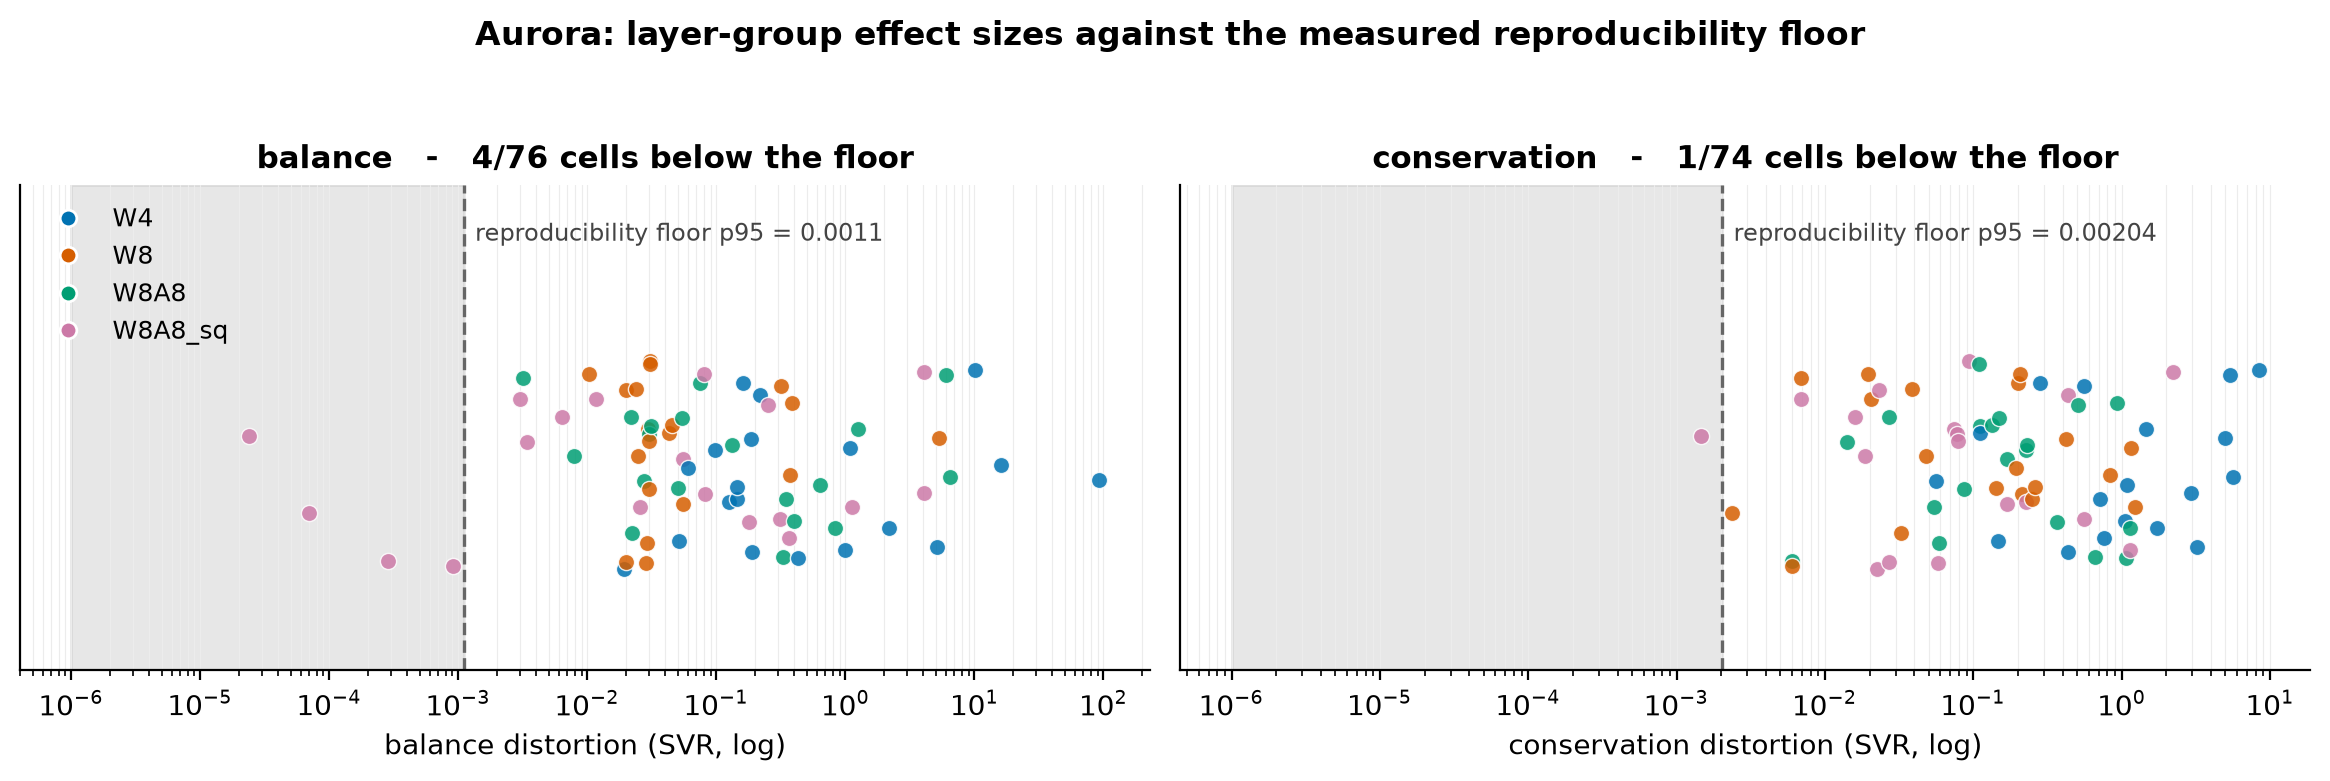
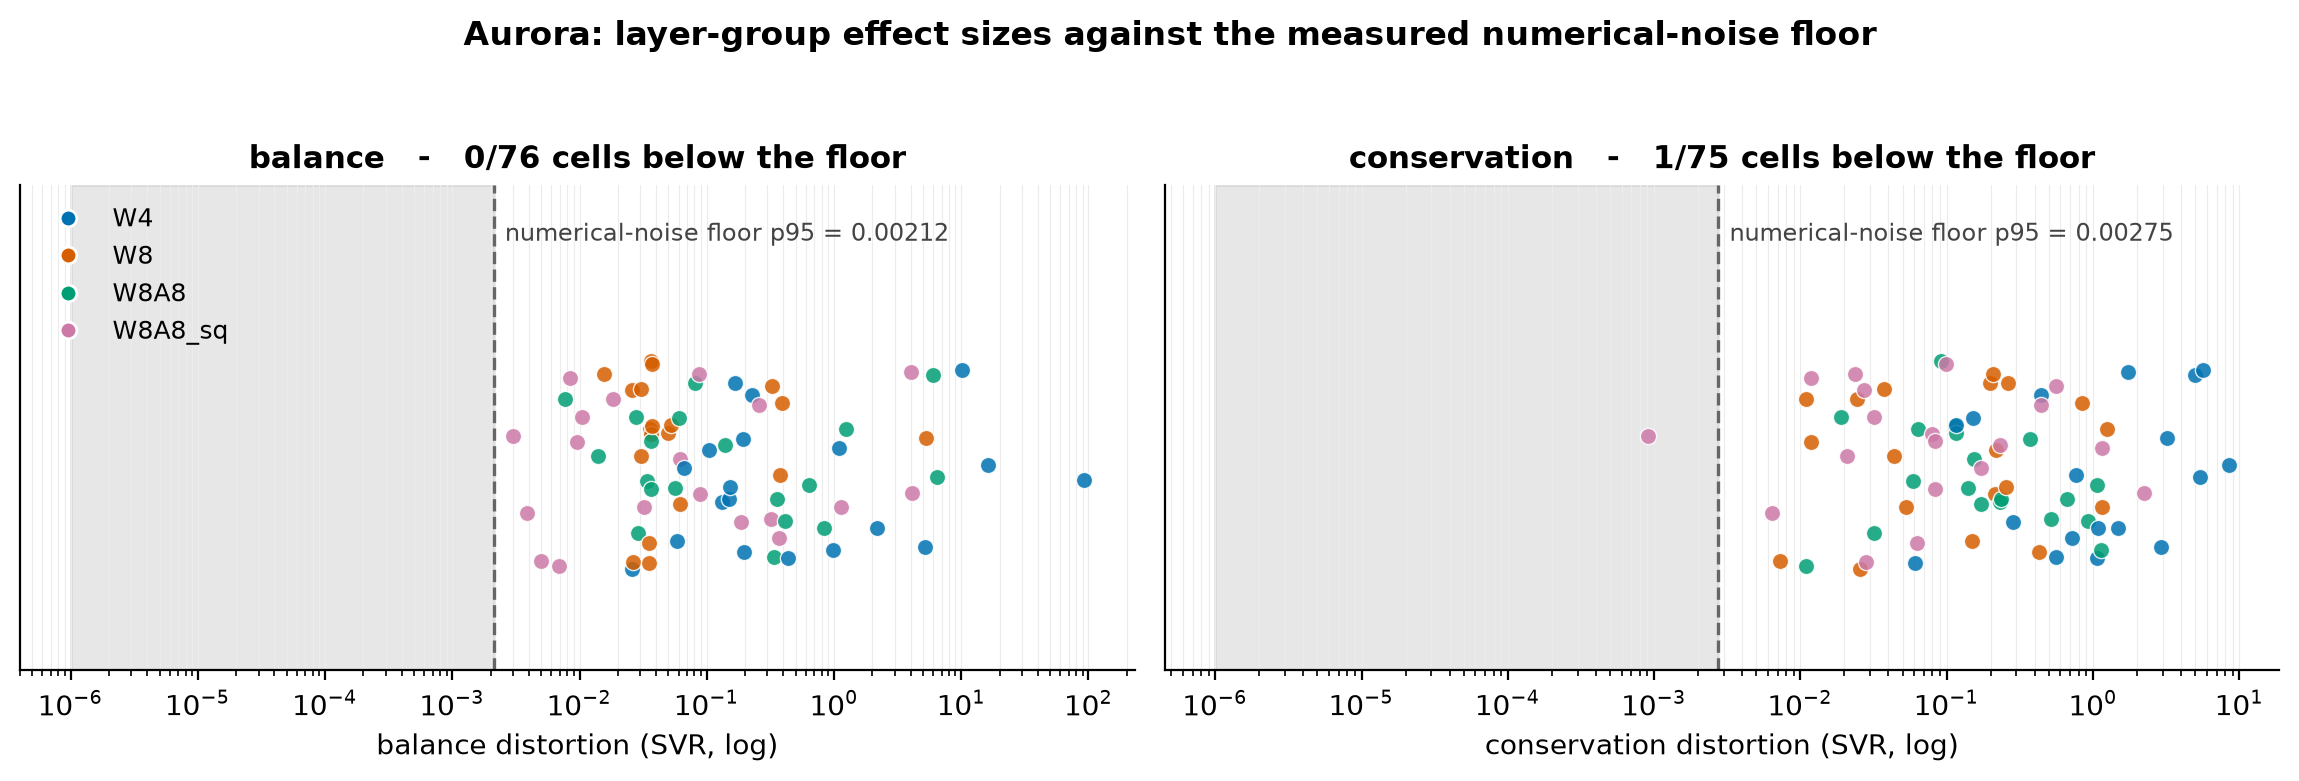
Changed fig A23/A26 to SVR instead of distortions and changed axis to use the same denominator as points so they share the same variability. Only numerator is changing

diff --git a/Aurora_Experiments/physq_core/derive_axis_null.py b/Aurora_Experiments/physq_core/derive_axis_null.py
@@ -10,6 +10,7 @@ import torch
 
 import ablation_comp as ac
 import paired_stats as ps
+import plot_common as pc
 from plot_common import AGG_CLASS, MetricsRun
 
 @contextlib.contextmanager
@@ -20,7 +21,7 @@ def _csv_writer(path):
 
 
 LEAD = 120
-DIR = "noise_floor_ens"
+DIR = "noise_floor_ens_n48"
 AXES = ["balance", "conservation", "standard"]
 
 AURORA_G1 = 0.03066     # film balance @W8 -- the floor must erase this
@@ -28,7 +29,23 @@ AURORA_G2 = 0.09295     # decoder_heads standard @W8 -- the floor must NOT erase
 DEFAULT_FLOOR = 0.05    # the practical-significance floor actually in use
 
 
-def derive(ens_dir, lead=LEAD, verbose=True):
+def oat_denominators(oat_fp32_path, lead=LEAD):
+    """{label: denominator} exactly as sensitivity.csv computed them."""
+    run = MetricsRun("oat", torch.load(oat_fp32_path, map_location="cpu",
+                                       weights_only=False))
+    dates = ac.recover_dates(list(run.dates))
+    method = ac.pick_svr_method(dates)
+    out = {}
+    for sp in ac.available_specs(run, run, ac.metric_registry(run), lead):
+        f = np.asarray(pc.per_init_series(run, sp, lead), dtype=np.float64)
+        d = (float(np.percentile(f, 75) - np.percentile(f, 25)) if method == "iqr_raw"
+             else float(pc.spread(f, dates, method)))
+        if np.isfinite(d) and d > 0:
+            out[sp.label] = d
+    return out, method, len(run.dates)
+
+
+def derive(ens_dir, lead=LEAD, verbose=True, denoms=None):
     inv = collections.defaultdict(list)
     for fam, cls in AGG_CLASS.items():
         inv[cls].append(fam)
@@ -49,14 +66,16 @@ def derive(ens_dir, lead=LEAD, verbose=True):
         for a in AXES:
             fam_vals = {}
             for fam in inv.get(a, []):
-                specs = ps.specs_for_family(ref, mem, fam, lead)
+                specs = [sp for sp in ps.specs_for_family(ref, mem, fam, lead)
+                         if denoms is None or sp.label in denoms]
                 if not specs:
                     continue
-                deltas, denoms = ps.family_deltas(ref, mem, specs, lead)
+                deltas, own = ps.family_deltas(ref, mem, specs, lead)
                 if not deltas:
                     continue
                 idx = np.arange(len(next(iter(deltas.values()))))
-                v = ps.axis_value(deltas, denoms, idx)
+                use = own if denoms is None else {l: denoms[l] for l in deltas}
+                v = ps.axis_value(deltas, use, idx)
                 if np.isfinite(v):
                     fam_vals[fam] = v
             if fam_vals:
@@ -73,15 +92,29 @@ def main(argv=None):
                                  formatter_class=argparse.RawDescriptionHelpFormatter)
     ap.add_argument("--ens", default=DIR, help=f"round-off ensemble dir (default {DIR})")
     ap.add_argument("--lead", type=int, default=LEAD)
+    ap.add_argument("--denominators-from", dest="basis", default="ensemble",
+                    choices=("ensemble", "oat"),
+                    help="which spread to divide by; 'oat' puts the null in "
+                         "sensitivity.csv's units for the figA23/figA26 band")
+    ap.add_argument("--oat-fp32", default="ablations_W8A8/fp32_metrics.pt",
+                    help="OAT run's fp32_metrics.pt, source of the --denominators-from oat "
+                         "divisors")
     ap.add_argument("--gates", default="aurora", choices=("aurora", "none"),
                     help="print the comparison against Aurora's W8 gate bounds. Use 'none' "
                          "for any other model -- those constants are Aurora measurements.")
     ap.add_argument("--out", default=None,
                     help="write the per-axis null summary here as CSV "
-                         "(default: <ens>/axis_null_p95.csv)")
+                         "(default: <ens>/axis_null_p95.csv, or "
+                         "axis_null_p95_oatbasis.csv when --denominators-from oat)")
     a = ap.parse_args(argv)
 
-    per_axis, n = derive(a.ens, lead=a.lead)
+    denoms = None
+    if a.basis == "oat":
+        denoms, method, n_oat = oat_denominators(a.oat_fp32, a.lead)
+        print(f"denominators from {a.oat_fp32}: {len(denoms)} labels, method={method}, "
+              f"{n_oat} inits", flush=True)
+
+    per_axis, n = derive(a.ens, lead=a.lead, denoms=denoms)
 
     print(f"\n=== AXIS-LEVEL NULL ({a.ens}, round-off ensemble, "
           f"n={n} perturbed members, {a.lead}h) ===")
@@ -108,7 +141,8 @@ def main(argv=None):
                        else "BELOW G1 bound" if ax == "balance" else "")
             print(f"  {ax:14} p95 = {p95:.5g}   {verdict}")
 
-    out = a.out or os.path.join(a.ens, "axis_null_p95.csv")
+    name = "axis_null_p95_oatbasis.csv" if a.basis == "oat" else "axis_null_p95.csv"
+    out = a.out or os.path.join(a.ens, name)
     with _csv_writer(out) as w:
         w.writerow(["axis", "lead", "n_members", "median", "p90", "p95", "max"])
         for ax in AXES:

diff --git a/Aurora_Experiments/physq_core/figure_specs.py b/Aurora_Experiments/physq_core/figure_specs.py
@@ -1566,13 +1566,13 @@ def _scheme_csvs(root):
 
 
 REPRODUCIBILITY_FLOOR_TITLE = (
-    "Aurora: layer-group effect sizes against the measured reproducibility floor")
+    "Aurora: layer-group effect sizes against the measured numerical-noise floor")
 
 
 def _b_reproducibility_floor(roots, outdir):
     r = roots["aurora"]
     data = fc.prepare_reproducibility_floor(
-        r.path("noise_floor_ens_n48", "axis_null_p95.csv"),
+        r.path("noise_floor_ens_n48", "axis_null_p95_oatbasis.csv"),
         _scheme_csvs(r), lead=120)
     return fc.draw_reproducibility_floor(
         data, outdir, "figA23_reproducibility_floor.png", REPRODUCIBILITY_FLOOR_TITLE)
@@ -1581,19 +1581,19 @@ def _b_reproducibility_floor(roots, outdir):
 REGISTRY.append(
     FigureSpec(id="reproducibility_floor", number=23, section="appendix", model="aurora",
                build=_b_reproducibility_floor,
-               inputs=("noise_floor_ens_n48/axis_null_p95.csv",
+               inputs=("noise_floor_ens_n48/axis_null_p95_oatbasis.csv",
                        "ablation_analysis_ablations_*/sensitivity.csv"),
                title=REPRODUCIBILITY_FLOOR_TITLE))
 
 
 REPRODUCIBILITY_FLOOR_STORMER_TITLE = (
-    "Stormer: layer-group effect sizes against the measured reproducibility floor")
+    "Stormer: layer-group effect sizes against the measured numerical-noise floor")
 
 
 def _b_reproducibility_floor_stormer(roots, outdir):
     r = roots["stormer"]
     data = fc.prepare_reproducibility_floor(
-        r.path("stormer_noise_floor_ens", "axis_null_p95.csv"),
+        r.path("stormer_noise_floor_ens", "axis_null_p95_oatbasis.csv"),
         _scheme_csvs(r), lead=120)
     return fc.draw_reproducibility_floor(
         data, outdir, "figA26_reproducibility_floor_stormer.png",
@@ -1603,7 +1603,7 @@ def _b_reproducibility_floor_stormer(roots, outdir):
 REGISTRY.append(
     FigureSpec(id="reproducibility_floor_stormer", number=26, section="appendix",
                model="stormer", build=_b_reproducibility_floor_stormer,
-               inputs=("stormer_noise_floor_ens/axis_null_p95.csv",
+               inputs=("stormer_noise_floor_ens/axis_null_p95_oatbasis.csv",
                        "ablation_analysis_ablation_*/sensitivity.csv"),
                title=REPRODUCIBILITY_FLOOR_STORMER_TITLE))
 

diff --git a/Aurora_Experiments/physq_core/figure_core.py b/Aurora_Experiments/physq_core/figure_core.py
@@ -1800,7 +1800,8 @@ def draw_per_variable_rho(rows, outdir, name, title, caption=""):
 # ------------------------------------------------- the reproducibility floor
 
 def prepare_reproducibility_floor(floor_csv, scheme_csvs, lead=120,
-                                  axes=("balance", "conservation")):
+                                  axes=("balance", "conservation"),
+                                  value_col="svr"):
     floor = {r["axis"]: r for r in read_csv(floor_csv)}
     if not floor:
         return {}
@@ -1808,7 +1809,8 @@ def prepare_reproducibility_floor(floor_csv, scheme_csvs, lead=120,
     present = {k: v for k, v in scheme_csvs.items() if os.path.exists(v)}
     if not present:
         return {}
-    d = load_distortion_table(present, lead=lead, axes=tuple(axes))
+    d = load_distortion_table(present, lead=lead, axes=tuple(axes),
+                              value_col=value_col)
     out = {"lead": lead, "axes": {}}
     for a in axes:
         if a not in floor:
@@ -1857,7 +1859,7 @@ def draw_reproducibility_floor(data, outdir, name, title):
         ax.set_title(f"{a}   -   {n_below}/{len(info['cells'])} cells below the floor",
                      fontsize=11, fontweight="bold")
         # .4f prints 0.0000 for Stormer's 4.6e-05 floor; .3g keeps both models legible.
-        ax.annotate(f"reproducibility floor p95 = {info['p95']:.3g}", xy=(info["p95"], 0.60),
+        ax.annotate(f"numerical-noise floor p95 = {info['p95']:.3g}", xy=(info["p95"], 0.60),
                     xytext=(4, 0), textcoords="offset points", fontsize=8.5, color="#444")
         style(ax)
         ax.grid(True, axis="x", which="both", ls="-", lw=0.4, color="#ececec")

diff --git a/Aurora_Experiments/physq_core/allocator.py b/Aurora_Experiments/physq_core/allocator.py
@@ -83,7 +83,7 @@ from collections import defaultdict
 
 def load_distortion_table(scheme_csvs, lead=120, axes=CONSISTENCY_AXES,
                           reducer=None, families=None, min_effect_frac=0.0,
-                          axis_floor=0.0):
+                          axis_floor=0.0, value_col="distortion"):
     import ablation_comp as ac
     from plot_common import AGG_CLASS
     d = defaultdict(lambda: defaultdict(dict))
@@ -98,7 +98,9 @@ def load_distortion_table(scheme_csvs, lead=120, axes=CONSISTENCY_AXES,
                 axis = AGG_CLASS.get(fam)
                 if axis not in axes:
                     continue
-                acc[row["group"]][axis][fam].append(float(row["distortion"]))
+                acc[row["group"]][axis][fam].append(
+                    abs(float(row["svr"])) if value_col == "svr"
+                    else float(row[value_col]))
         for g, axesd in acc.items():
             groups.add(g)
             for a in axes:
